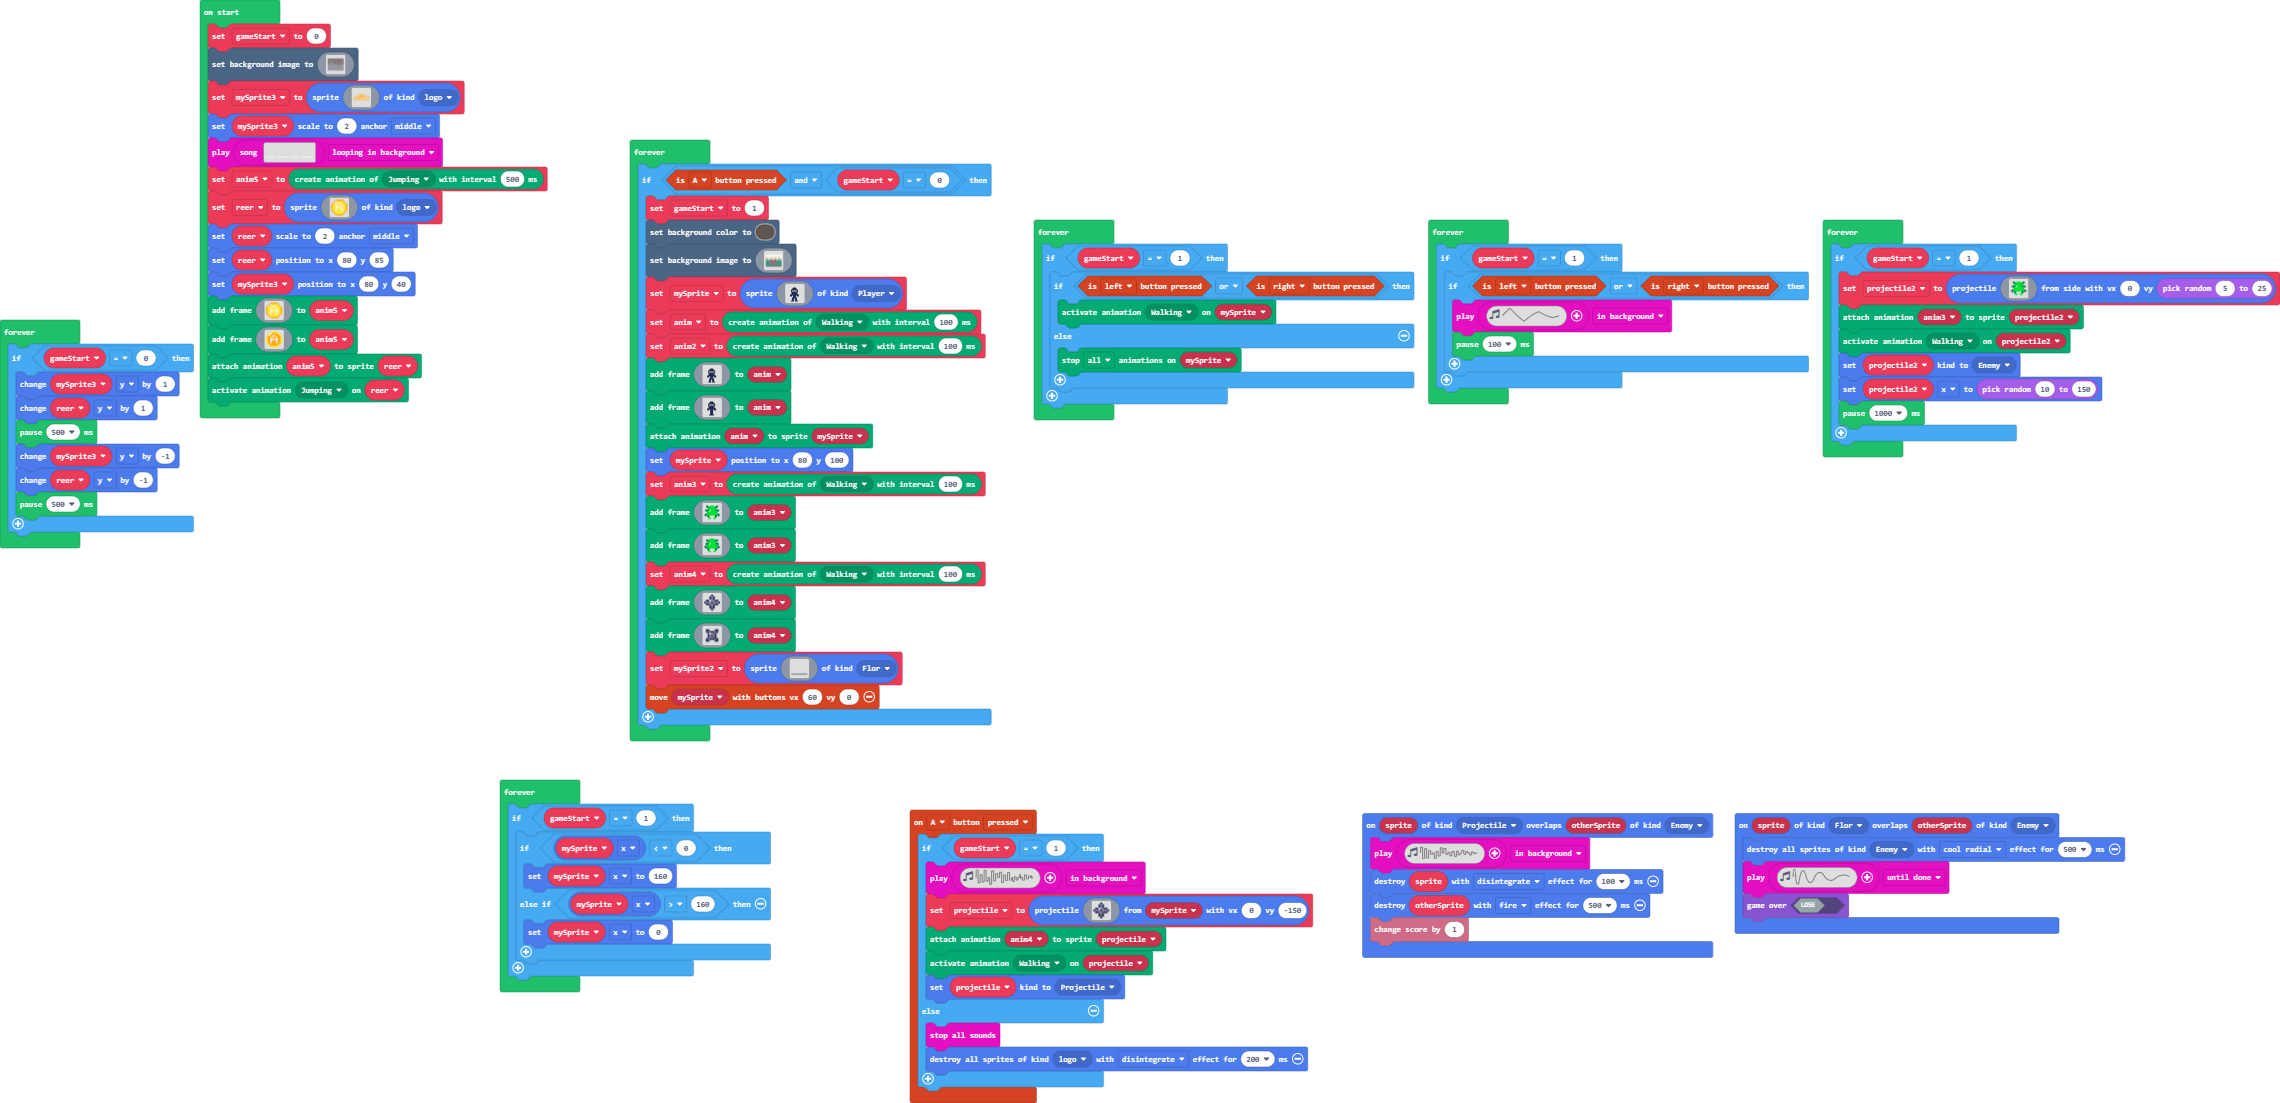
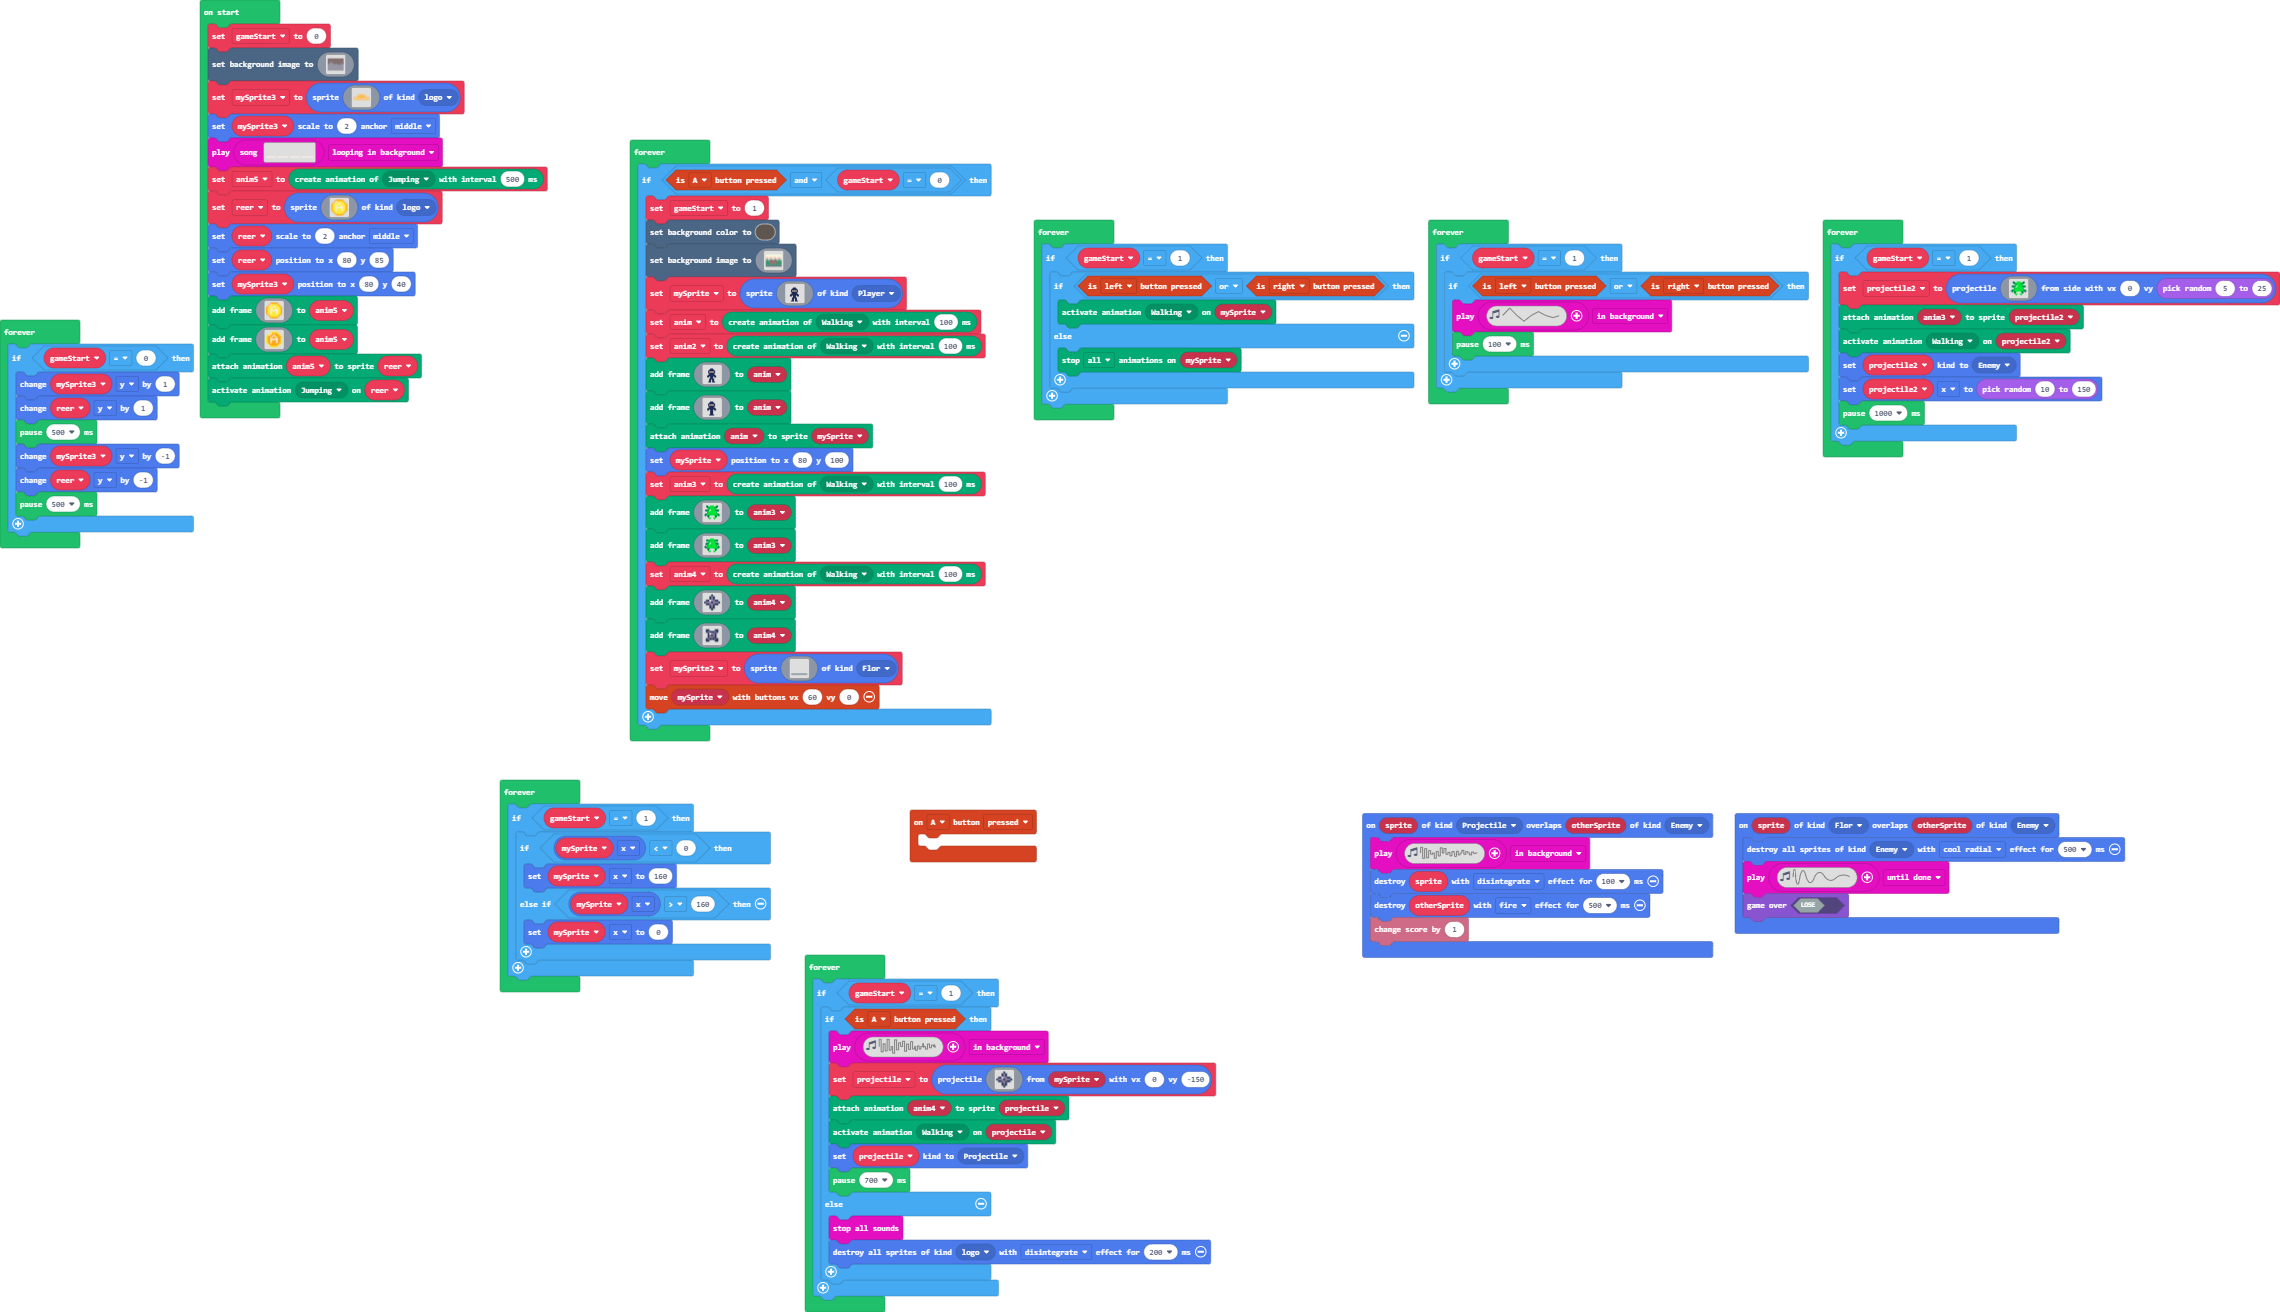
Update main.blocks, main.ts

Changed region(s): [[0.218, 0.0925, 1.0, 1.0], [0.0, 0.0, 0.2491, 0.524]]

diff --git a/main.ts b/main.ts
@@ -10,16 +10,7 @@ namespace SpriteKind {
     export const logo = SpriteKind.create()
 }
 controller.A.onEvent(ControllerButtonEvent.Pressed, function () {
-    if (gameStart == 1) {
-        music.play(music.createSoundEffect(WaveShape.Noise, 1110, 2269, 255, 0, 100, SoundExpressionEffect.Vibrato, InterpolationCurve.Curve), music.PlaybackMode.InBackground)
-        projectile = sprites.createProjectileFromSprite(assets.image`myImage`, mySprite, 0, -150)
-        animation.attachAnimation(projectile, anim4)
-        animation.setAction(projectile, ActionKind.Idle)
-        projectile.setKind(SpriteKind.Projectile)
-    } else {
-        music.stopAllSounds()
-        sprites.destroyAllSpritesOfKind(SpriteKind.logo, effects.disintegrate, 200)
-    }
+	
 })
 sprites.onOverlap(SpriteKind.Flor, SpriteKind.Enemy, function (sprite, otherSprite) {
     sprites.destroyAllSpritesOfKind(SpriteKind.Enemy, effects.coolRadial, 500)
@@ -32,16 +23,15 @@ sprites.onOverlap(SpriteKind.Projectile, SpriteKind.Enemy, function (sprite, oth
     sprites.destroy(otherSprite, effects.fire, 500)
     info.changeScoreBy(1)
 })
+let projectile: Sprite = null
 let projectile2: Sprite = null
 let mySprite2: Sprite = null
+let anim4: animation.Animation = null
 let anim3: animation.Animation = null
 let anim2: animation.Animation = null
 let anim: animation.Animation = null
-let anim4: animation.Animation = null
 let mySprite: Sprite = null
-let projectile: Sprite = null
 let gameStart = 0
-gameStart = 0
 scene.setBackgroundImage(img`
     cccccccccccccccccccccccccccccccccccccccccccccccccccccccccccccccccccccccccccccccccccccccccccccccccccccccccccccccccccccccccccccccccccccccccccccccccccccccccccccccc
     cccccccccccccccccccccccccccccccccccccccccccccccccccccccccccccccccccccccccccccccccccccccccccccccccccccccccccccccccccccccccccccccccccccccccccccccccccccccccccccccc
@@ -362,6 +352,21 @@ forever(function () {
             mySprite.x = 160
         } else if (mySprite.x > 160) {
             mySprite.x = 0
+        }
+    }
+})
+forever(function () {
+    if (gameStart == 1) {
+        if (controller.A.isPressed()) {
+            music.play(music.createSoundEffect(WaveShape.Noise, 1110, 2269, 255, 0, 100, SoundExpressionEffect.Vibrato, InterpolationCurve.Curve), music.PlaybackMode.InBackground)
+            projectile = sprites.createProjectileFromSprite(assets.image`myImage`, mySprite, 0, -150)
+            animation.attachAnimation(projectile, anim4)
+            animation.setAction(projectile, ActionKind.Idle)
+            projectile.setKind(SpriteKind.Projectile)
+            pause(700)
+        } else {
+            music.stopAllSounds()
+            sprites.destroyAllSpritesOfKind(SpriteKind.logo, effects.disintegrate, 200)
         }
     }
 })
